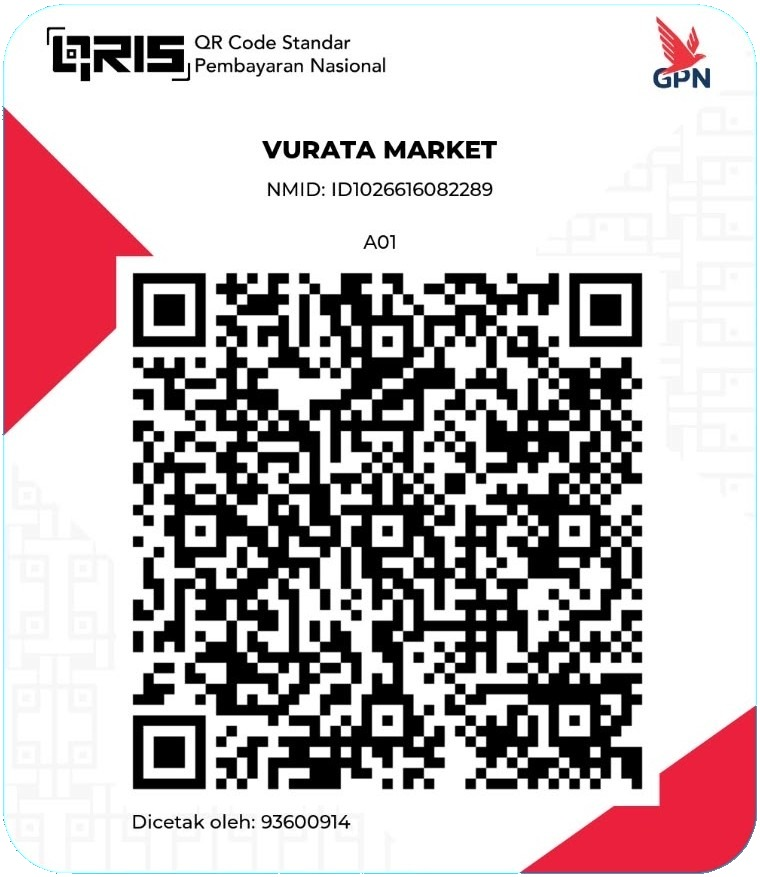
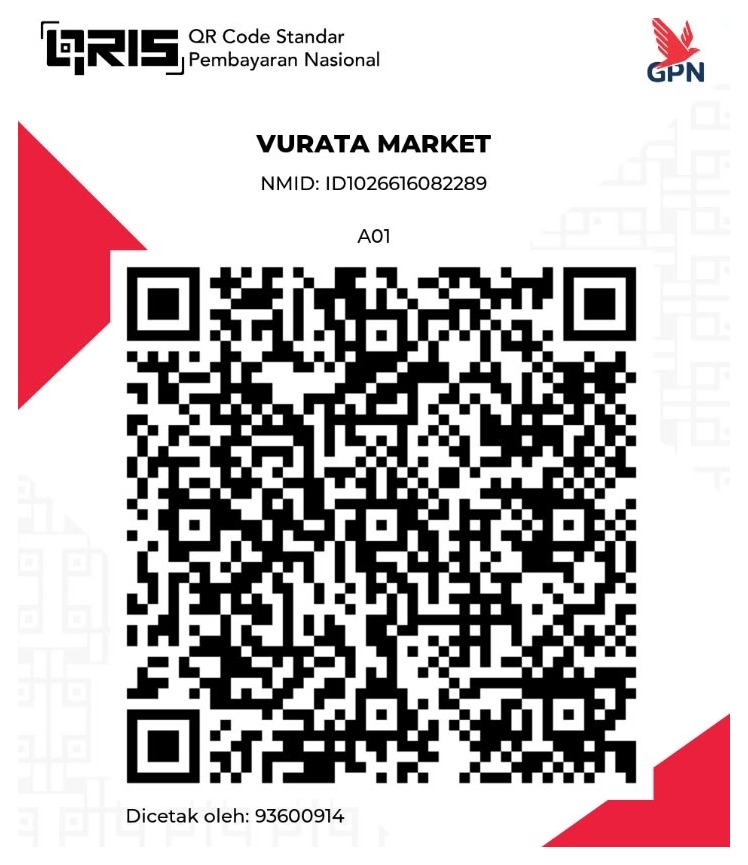
PDF receipt: calmer closing section (totals, good to know, payment callout, order code, thank-you sign-off). QRIS image recropped without the blue edge

diff --git a/index.html b/index.html
@@ -2210,6 +2210,40 @@ function buildPdf(comp) {
     const sn = (S.sup[g.sid] || {}).n; if (sn) { doc.setFont('helvetica', 'normal'); doc.setFontSize(8.5); doc.setTextColor(90, 100, 94); const l = doc.splitTextToSize(clean('Order note: ' + sn), W - 2 * M); doc.text(l, M + 1, y + 1); y += l.length * 4; }
     y += 6;
   });
+  if (cmode) {
+    const INK = [22, 32, 26], MUTE = [104, 114, 108], GOLDT = [140, 115, 71], GOLD = [194, 166, 121];
+    const tracked = (t, x, yy, cs) => { doc.setCharSpace(cs); txt(t, x, yy); doc.setCharSpace(0); };
+    need(70); doc.setDrawColor(214, 218, 215); doc.setLineWidth(0.3); doc.line(M, y, W - M, y); y += 10;
+    if (hasDel(comp)) { doc.setFont('helvetica', 'normal'); doc.setFontSize(10); doc.setTextColor(...MUTE); txt('Delivery' + (comp.zone ? ' (' + clean(zoneLabel(comp.zone)) + ')' : '') + (comp.codeUsed ? ' - code ' + clean(comp.codeUsed) : ''), M, y); doc.setTextColor(...INK); txt(delLine(comp), W - M, y, { align: 'right' }); y += 11; }
+    doc.setFont('helvetica', 'bold'); doc.setFontSize(8.5); doc.setTextColor(...MUTE); tracked('TOTAL', M, y, 0.9);
+    doc.setFontSize(20); doc.setTextColor(...INK); txt(fmtRp(comp.grand), W - M, y, { align: 'right' }); y += 8;
+    const meas = fmtMeasure(comp.w, comp.v);
+    const facts = [comp.count + (comp.count === 1 ? ' line' : ' lines'), comp.kgQty ? fmtQty(comp.kgQty) + ' kg sold by weight' : '', comp.unitQty ? unitsTxt(comp.unitQty) : '', meas ? 'about ' + meas : '', comp.unpriced ? comp.unpriced + ' without a price, not counted' : ''].filter(Boolean).join('   \xB7   ');
+    doc.setFont('helvetica', 'normal'); doc.setFontSize(8.5); doc.setTextColor(...MUTE); const fl = doc.splitTextToSize(clean(facts), W - 2 * M); doc.text(fl, W - M, y, { align: 'right' }); y += fl.length * 4 + 12;
+    need(30); doc.setFont('helvetica', 'bold'); doc.setFontSize(7.5); doc.setTextColor(...GOLDT); tracked('GOOD TO KNOW', M, y, 0.9); y += 6;
+    doc.setFont('helvetica', 'normal'); doc.setFontSize(9); doc.setTextColor(...MUTE);
+    ['Items marked est. are sold by weight. They are weighed when packed, so you pay for the exact weight.', 'Fresh produce arrives the morning of delivery.'].forEach(t => { const l = doc.splitTextToSize(t, W - 2 * M); doc.text(l, M, y); y += l.length * 4.4 + 2; });
+    y += 7;
+    if (/qris/i.test(S.meta.pay || '')) {
+      const body = doc.splitTextToSize('Payment by QRIS: pay after your host confirms the final total, and type the amount from the final bill.', W - 2 * M - 14); const bh = body.length * 4.6 + 16; need(bh + 10);
+      doc.setFillColor(250, 246, 238); doc.rect(M, y, W - 2 * M, bh, 'F'); doc.setFillColor(...GOLD); doc.rect(M, y, 1.2, bh, 'F');
+      doc.setFont('helvetica', 'bold'); doc.setFontSize(7.5); doc.setTextColor(...GOLDT); tracked('PAYMENT', M + 7, y + 7, 0.9);
+      doc.setFontSize(9.5); doc.setTextColor(...INK); doc.text(body, M + 7, y + 13.5); y += bh + 12;
+    }
+    const qm = qrModules(ocode);
+    if (qm) {
+      const n = qm.length, size = 70, mod = size / (n + 4); need(size + 30);
+      doc.setFillColor(255, 255, 255); doc.rect(M, y, size, size, 'F'); doc.setFillColor(0, 0, 0); for (let r = 0; r < n; r++) for (let c = 0; c < n; c++) if (qm[r][c]) doc.rect(M + (c + 2) * mod, y + (r + 2) * mod, mod + 0.04, mod + 0.04, 'F');
+      const tx = M + size + 12; doc.setFont('helvetica', 'bold'); doc.setFontSize(7.5); doc.setTextColor(...GOLDT); tracked('ORDER CODE', tx, y + 6, 0.9);
+      doc.setFont('helvetica', 'bold'); doc.setFontSize(12); doc.setTextColor(...INK); txt('For your host', tx, y + 13);
+      doc.setFont('helvetica', 'normal'); doc.setFontSize(9); doc.setTextColor(...MUTE); const ol = doc.splitTextToSize('Your host scans this code to add your whole order in one step. You can also simply send this page on WhatsApp.', W - M - tx); doc.text(ol, tx, y + 19.5);
+      y += size + 16;
+    }
+    need(28); doc.setDrawColor(...GOLD); doc.setLineWidth(0.6); doc.line(M, y, M + 14, y); y += 9;
+    doc.setFont('helvetica', 'normal'); doc.setFontSize(13); doc.setTextColor(...INK); txt('Thank you for ordering with us.', M, y); y += 7;
+    doc.setFont('helvetica', 'bold'); doc.setFontSize(7.5); doc.setTextColor(...MUTE); tracked('THE VURATA MARKET TEAM', M, y, 0.9); y += 5;
+    doc.setFont('helvetica', 'normal'); doc.setFontSize(8.5); txt('From the team behind Vurata Bali Experiences', M, y); y += 4;
+  } else {
   need(34); doc.setDrawColor(22, 32, 26); doc.setLineWidth(0.5); doc.line(M, y, W - M, y); y += 8;
   if (hasDel(comp)) { doc.setFont('helvetica', 'normal'); doc.setFontSize(10); doc.setTextColor(22, 32, 26); txt('Delivery' + (comp.zone ? ' (' + clean(zoneLabel(comp.zone)) + ')' : '') + (comp.codeUsed ? ' - code ' + clean(comp.codeUsed) : ''), M, y); txt(delLine(comp), W - M, y, { align: 'right' }); y += 7; }
   doc.setFont('helvetica', 'bold'); doc.setFontSize(14); doc.setTextColor(22, 32, 26); txt(cmode ? 'Total' : 'Estimated total', M, y); txt(fmtRp(comp.grand), W - M, y, { align: 'right' }); y += 6;
@@ -2228,6 +2262,7 @@ function buildPdf(comp) {
   if (cmode && /qris/i.test(S.meta.pay || '')) { doc.setFont('helvetica', 'bold'); doc.text('Payment by QRIS: pay after your host confirms the final total, and type the amount from the final bill.', M, y); doc.setFont('helvetica', 'normal'); y += 4.6; }
   if (cmode) { doc.text('Fresh produce arrives the morning of delivery.', M, y); y += 4; doc.text('From the team behind Vurata Bali Experiences', M, y); y += 6; } else { y += 4; }
   if (cmode) { const qm = qrModules(ocode); if (qm) { const n = qm.length, size = 78, mod = size / (n + 4); need(size + 14); doc.setFont('helvetica', 'bold'); doc.setFontSize(9); doc.setTextColor(22, 32, 26); txt('Order code for your host (scan it, or send this page)', M, y); y += 3; doc.setFillColor(255, 255, 255); doc.rect(M, y, size, size, 'F'); doc.setFillColor(0, 0, 0); for (let r = 0; r < n; r++) for (let c = 0; c < n; c++) if (qm[r][c]) doc.rect(M + (c + 2) * mod, y + (r + 2) * mod, mod + 0.04, mod + 0.04, 'F'); y += size + 4; } }
+  }
   const n = doc.getNumberOfPages(); for (let i = 1; i <= n; i++) { doc.setPage(i); doc.setFontSize(8); doc.setTextColor(140, 148, 143); txt('Vurata Market order  |  page ' + i + ' of ' + n, W / 2, 291, { align: 'center' }); }
   return doc;
 }

diff --git a/src/template.html b/src/template.html
@@ -2210,6 +2210,40 @@ function buildPdf(comp) {
     const sn = (S.sup[g.sid] || {}).n; if (sn) { doc.setFont('helvetica', 'normal'); doc.setFontSize(8.5); doc.setTextColor(90, 100, 94); const l = doc.splitTextToSize(clean('Order note: ' + sn), W - 2 * M); doc.text(l, M + 1, y + 1); y += l.length * 4; }
     y += 6;
   });
+  if (cmode) {
+    const INK = [22, 32, 26], MUTE = [104, 114, 108], GOLDT = [140, 115, 71], GOLD = [194, 166, 121];
+    const tracked = (t, x, yy, cs) => { doc.setCharSpace(cs); txt(t, x, yy); doc.setCharSpace(0); };
+    need(70); doc.setDrawColor(214, 218, 215); doc.setLineWidth(0.3); doc.line(M, y, W - M, y); y += 10;
+    if (hasDel(comp)) { doc.setFont('helvetica', 'normal'); doc.setFontSize(10); doc.setTextColor(...MUTE); txt('Delivery' + (comp.zone ? ' (' + clean(zoneLabel(comp.zone)) + ')' : '') + (comp.codeUsed ? ' - code ' + clean(comp.codeUsed) : ''), M, y); doc.setTextColor(...INK); txt(delLine(comp), W - M, y, { align: 'right' }); y += 11; }
+    doc.setFont('helvetica', 'bold'); doc.setFontSize(8.5); doc.setTextColor(...MUTE); tracked('TOTAL', M, y, 0.9);
+    doc.setFontSize(20); doc.setTextColor(...INK); txt(fmtRp(comp.grand), W - M, y, { align: 'right' }); y += 8;
+    const meas = fmtMeasure(comp.w, comp.v);
+    const facts = [comp.count + (comp.count === 1 ? ' line' : ' lines'), comp.kgQty ? fmtQty(comp.kgQty) + ' kg sold by weight' : '', comp.unitQty ? unitsTxt(comp.unitQty) : '', meas ? 'about ' + meas : '', comp.unpriced ? comp.unpriced + ' without a price, not counted' : ''].filter(Boolean).join('   \xB7   ');
+    doc.setFont('helvetica', 'normal'); doc.setFontSize(8.5); doc.setTextColor(...MUTE); const fl = doc.splitTextToSize(clean(facts), W - 2 * M); doc.text(fl, W - M, y, { align: 'right' }); y += fl.length * 4 + 12;
+    need(30); doc.setFont('helvetica', 'bold'); doc.setFontSize(7.5); doc.setTextColor(...GOLDT); tracked('GOOD TO KNOW', M, y, 0.9); y += 6;
+    doc.setFont('helvetica', 'normal'); doc.setFontSize(9); doc.setTextColor(...MUTE);
+    ['Items marked est. are sold by weight. They are weighed when packed, so you pay for the exact weight.', 'Fresh produce arrives the morning of delivery.'].forEach(t => { const l = doc.splitTextToSize(t, W - 2 * M); doc.text(l, M, y); y += l.length * 4.4 + 2; });
+    y += 7;
+    if (/qris/i.test(S.meta.pay || '')) {
+      const body = doc.splitTextToSize('Payment by QRIS: pay after your host confirms the final total, and type the amount from the final bill.', W - 2 * M - 14); const bh = body.length * 4.6 + 16; need(bh + 10);
+      doc.setFillColor(250, 246, 238); doc.rect(M, y, W - 2 * M, bh, 'F'); doc.setFillColor(...GOLD); doc.rect(M, y, 1.2, bh, 'F');
+      doc.setFont('helvetica', 'bold'); doc.setFontSize(7.5); doc.setTextColor(...GOLDT); tracked('PAYMENT', M + 7, y + 7, 0.9);
+      doc.setFontSize(9.5); doc.setTextColor(...INK); doc.text(body, M + 7, y + 13.5); y += bh + 12;
+    }
+    const qm = qrModules(ocode);
+    if (qm) {
+      const n = qm.length, size = 70, mod = size / (n + 4); need(size + 30);
+      doc.setFillColor(255, 255, 255); doc.rect(M, y, size, size, 'F'); doc.setFillColor(0, 0, 0); for (let r = 0; r < n; r++) for (let c = 0; c < n; c++) if (qm[r][c]) doc.rect(M + (c + 2) * mod, y + (r + 2) * mod, mod + 0.04, mod + 0.04, 'F');
+      const tx = M + size + 12; doc.setFont('helvetica', 'bold'); doc.setFontSize(7.5); doc.setTextColor(...GOLDT); tracked('ORDER CODE', tx, y + 6, 0.9);
+      doc.setFont('helvetica', 'bold'); doc.setFontSize(12); doc.setTextColor(...INK); txt('For your host', tx, y + 13);
+      doc.setFont('helvetica', 'normal'); doc.setFontSize(9); doc.setTextColor(...MUTE); const ol = doc.splitTextToSize('Your host scans this code to add your whole order in one step. You can also simply send this page on WhatsApp.', W - M - tx); doc.text(ol, tx, y + 19.5);
+      y += size + 16;
+    }
+    need(28); doc.setDrawColor(...GOLD); doc.setLineWidth(0.6); doc.line(M, y, M + 14, y); y += 9;
+    doc.setFont('helvetica', 'normal'); doc.setFontSize(13); doc.setTextColor(...INK); txt('Thank you for ordering with us.', M, y); y += 7;
+    doc.setFont('helvetica', 'bold'); doc.setFontSize(7.5); doc.setTextColor(...MUTE); tracked('THE VURATA MARKET TEAM', M, y, 0.9); y += 5;
+    doc.setFont('helvetica', 'normal'); doc.setFontSize(8.5); txt('From the team behind Vurata Bali Experiences', M, y); y += 4;
+  } else {
   need(34); doc.setDrawColor(22, 32, 26); doc.setLineWidth(0.5); doc.line(M, y, W - M, y); y += 8;
   if (hasDel(comp)) { doc.setFont('helvetica', 'normal'); doc.setFontSize(10); doc.setTextColor(22, 32, 26); txt('Delivery' + (comp.zone ? ' (' + clean(zoneLabel(comp.zone)) + ')' : '') + (comp.codeUsed ? ' - code ' + clean(comp.codeUsed) : ''), M, y); txt(delLine(comp), W - M, y, { align: 'right' }); y += 7; }
   doc.setFont('helvetica', 'bold'); doc.setFontSize(14); doc.setTextColor(22, 32, 26); txt(cmode ? 'Total' : 'Estimated total', M, y); txt(fmtRp(comp.grand), W - M, y, { align: 'right' }); y += 6;
@@ -2228,6 +2262,7 @@ function buildPdf(comp) {
   if (cmode && /qris/i.test(S.meta.pay || '')) { doc.setFont('helvetica', 'bold'); doc.text('Payment by QRIS: pay after your host confirms the final total, and type the amount from the final bill.', M, y); doc.setFont('helvetica', 'normal'); y += 4.6; }
   if (cmode) { doc.text('Fresh produce arrives the morning of delivery.', M, y); y += 4; doc.text('From the team behind Vurata Bali Experiences', M, y); y += 6; } else { y += 4; }
   if (cmode) { const qm = qrModules(ocode); if (qm) { const n = qm.length, size = 78, mod = size / (n + 4); need(size + 14); doc.setFont('helvetica', 'bold'); doc.setFontSize(9); doc.setTextColor(22, 32, 26); txt('Order code for your host (scan it, or send this page)', M, y); y += 3; doc.setFillColor(255, 255, 255); doc.rect(M, y, size, size, 'F'); doc.setFillColor(0, 0, 0); for (let r = 0; r < n; r++) for (let c = 0; c < n; c++) if (qm[r][c]) doc.rect(M + (c + 2) * mod, y + (r + 2) * mod, mod + 0.04, mod + 0.04, 'F'); y += size + 4; } }
+  }
   const n = doc.getNumberOfPages(); for (let i = 1; i <= n; i++) { doc.setPage(i); doc.setFontSize(8); doc.setTextColor(140, 148, 143); txt('Vurata Market order  |  page ' + i + ' of ' + n, W / 2, 291, { align: 'center' }); }
   return doc;
 }

diff --git a/sw.js b/sw.js
@@ -1,5 +1,5 @@
 /* Vurata Market service worker: opens fast and keeps working on weak signal. Never touches Supabase. */
-const VERSION = '20261019123318';
+const VERSION = '20261019130231';
 const CORE = `vm-core-${VERSION}`;
 const RUNTIME = 'vm-runtime';
 const SHELL = ['./', 'index.html', 'shim.js', 'vendor/supabase.js', 'favicon.png', 'manifest.webmanifest', 'assets/wordmark-light.svg', 'assets/wordmark-dark.svg'];
